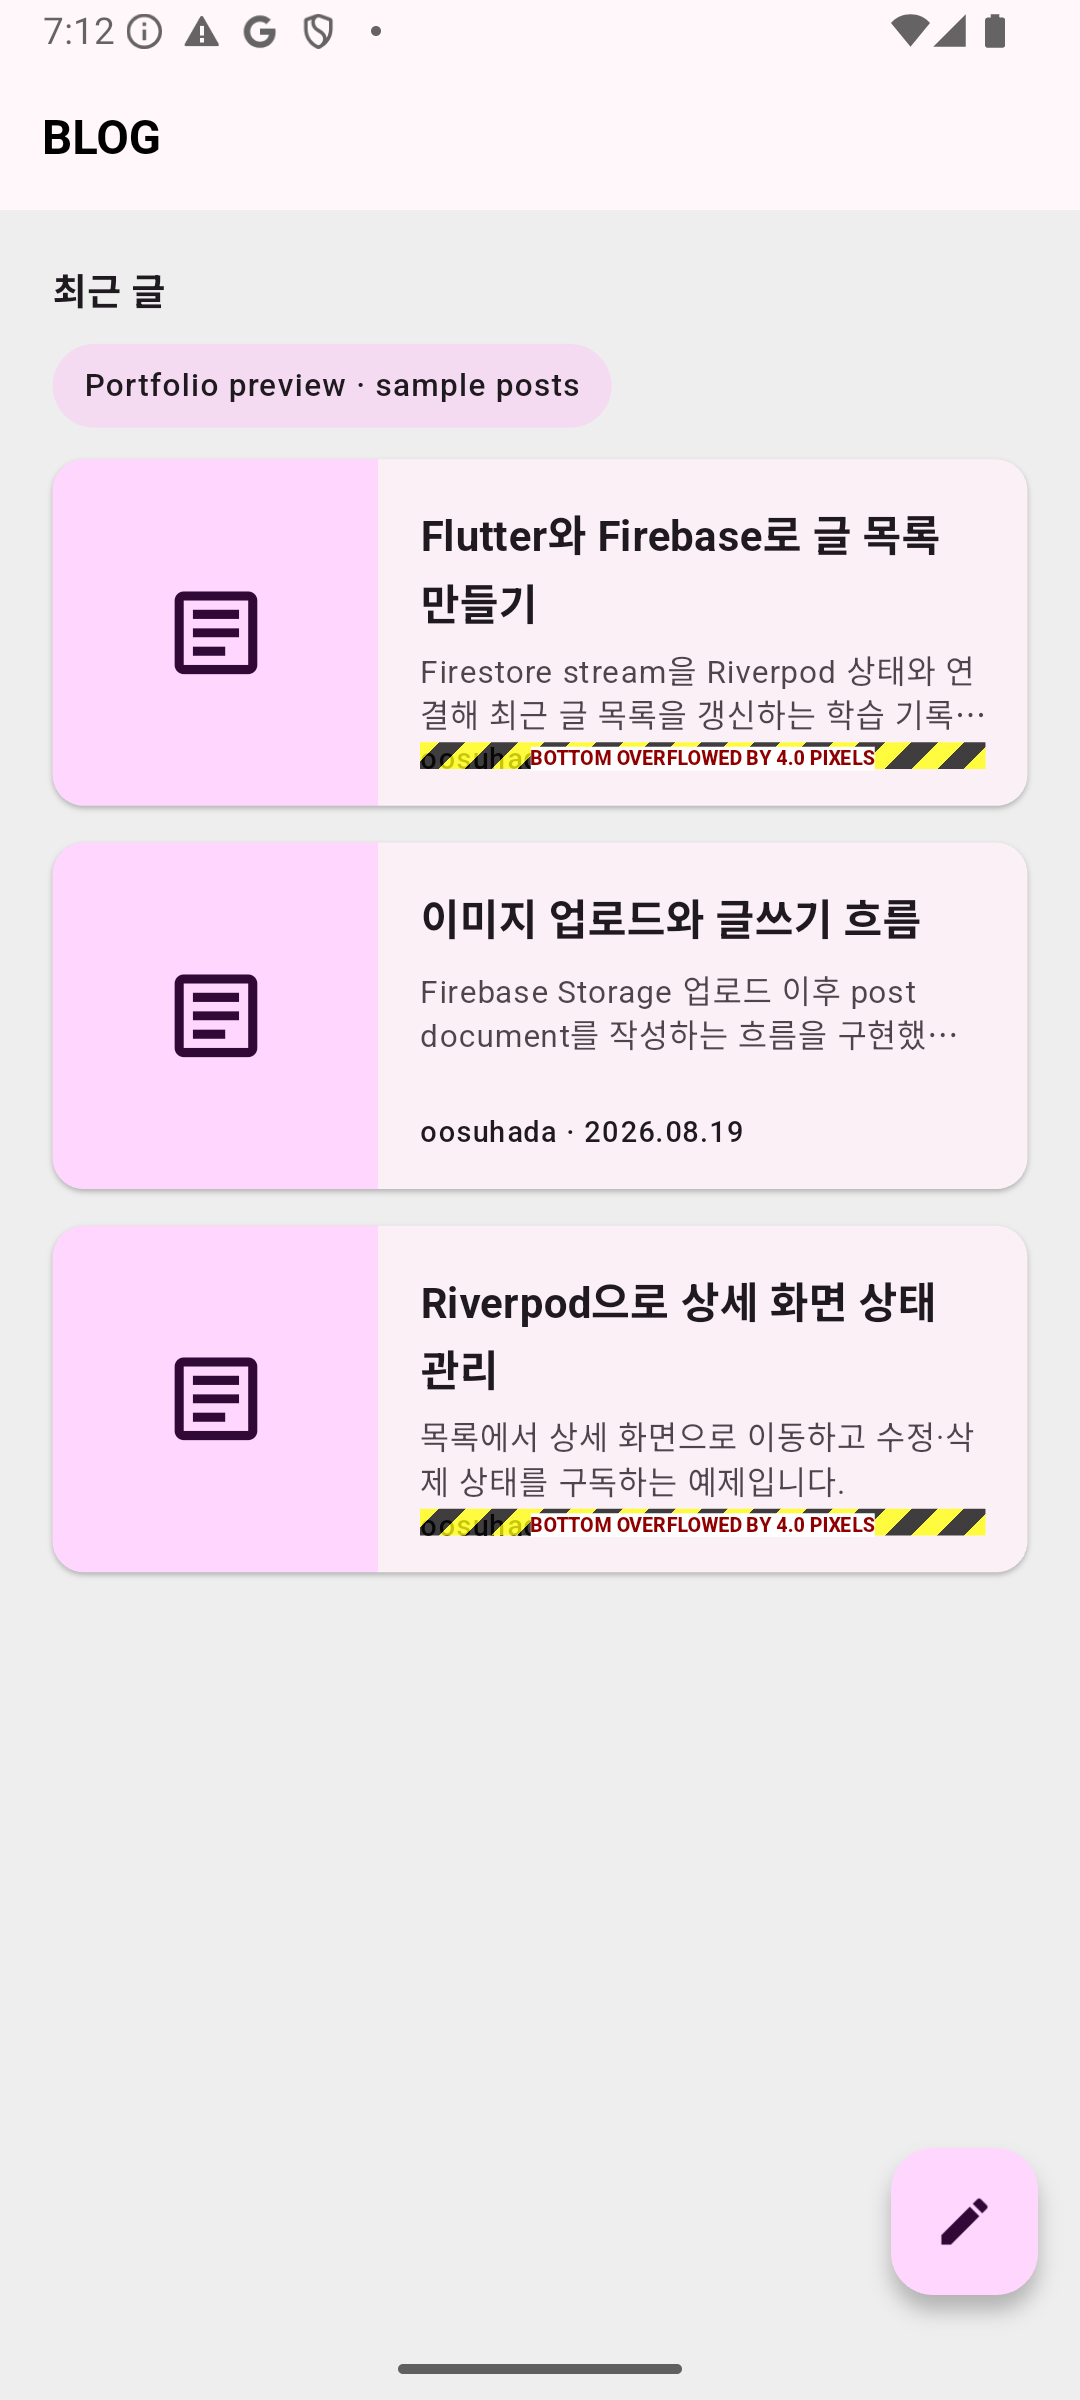
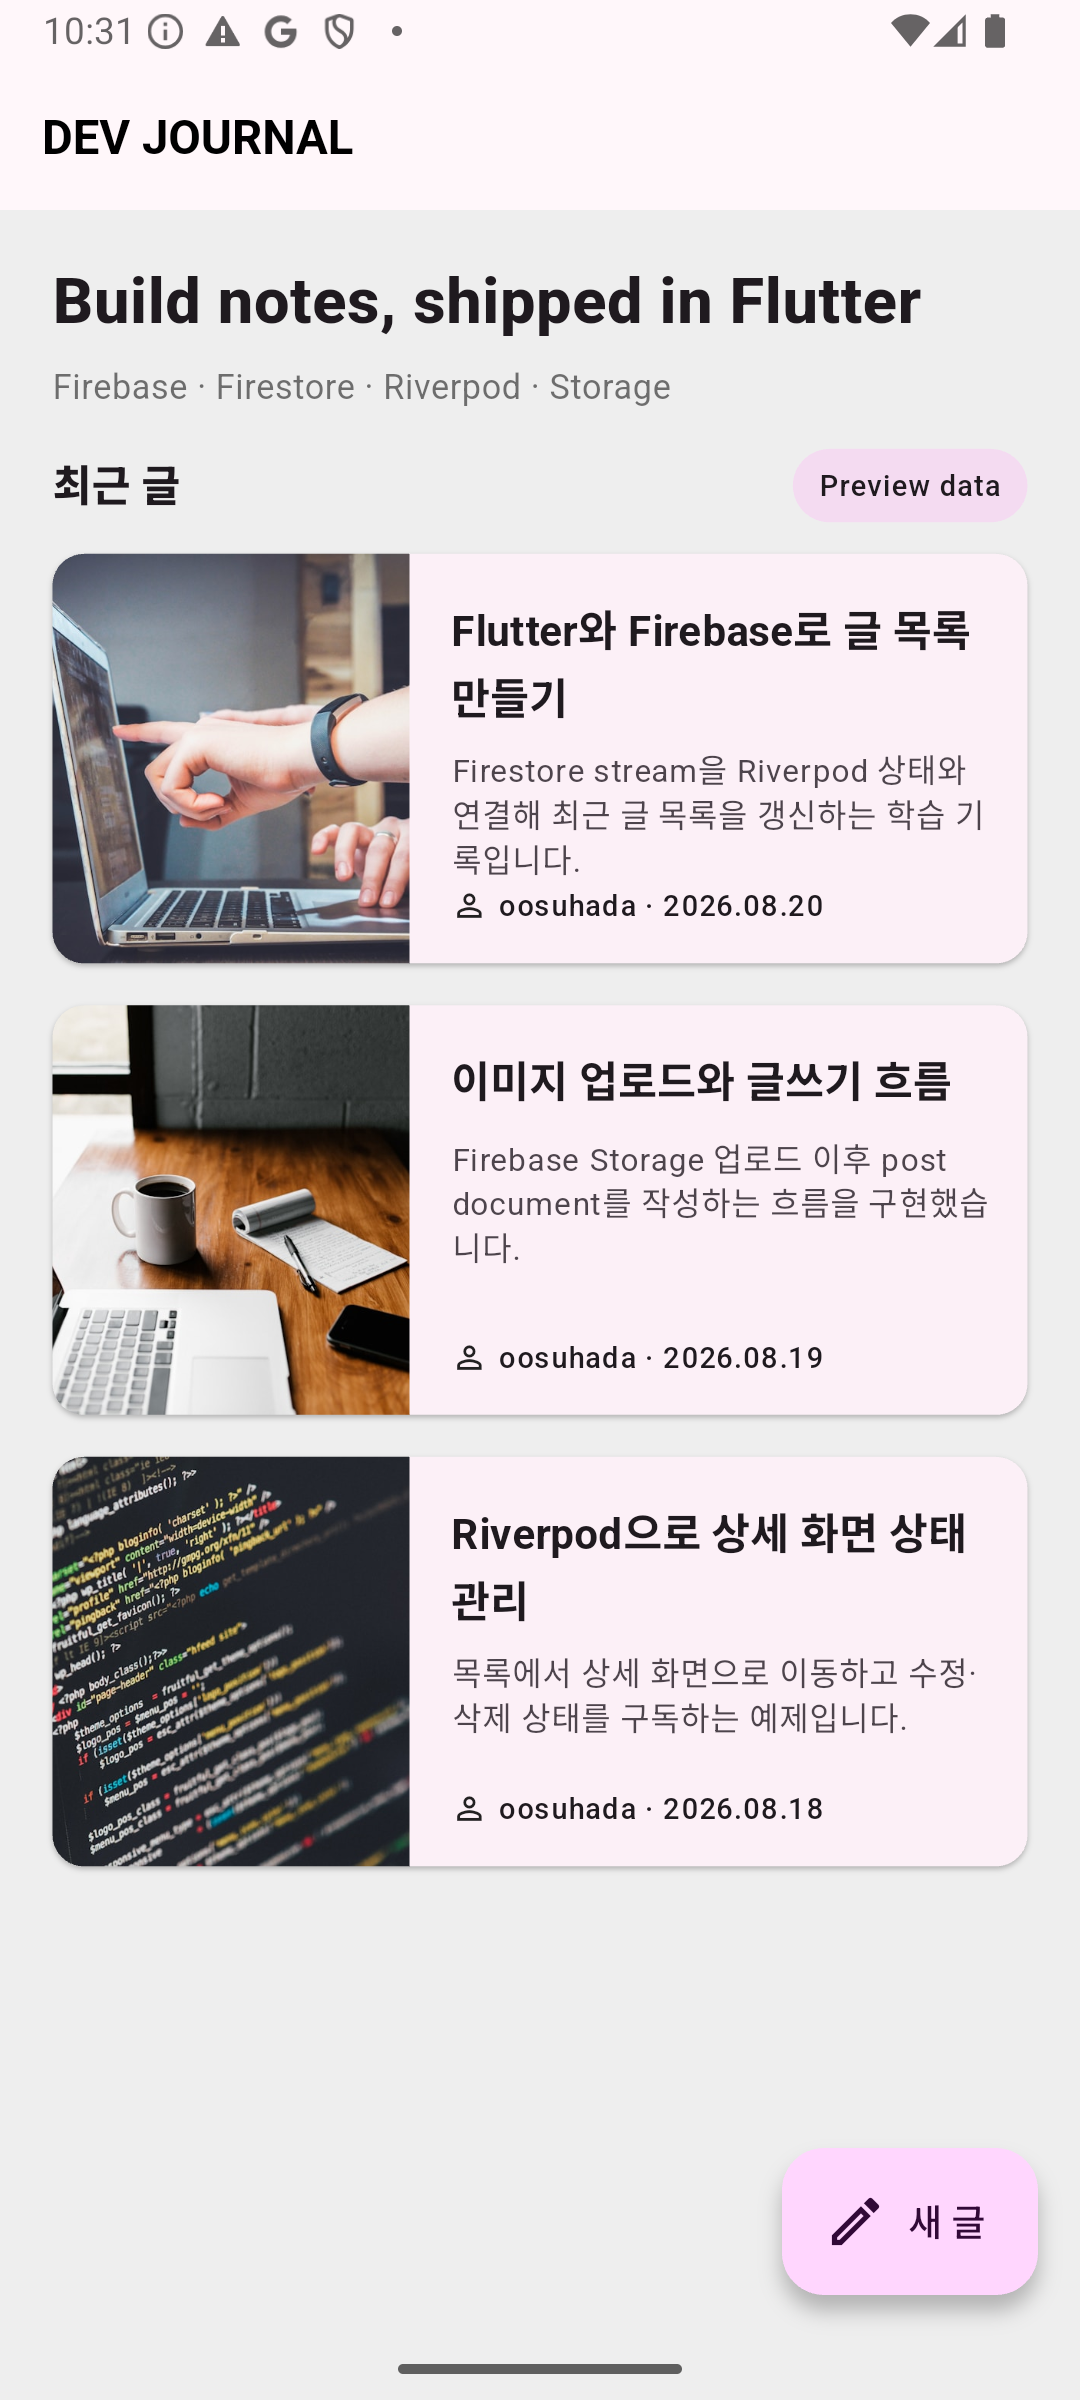
Polish Firebase blog portfolio feed

diff --git a/lib/ui/pages/home/widgets/home_list_view.dart b/lib/ui/pages/home/widgets/home_list_view.dart
@@ -15,26 +15,38 @@ class HomeListView extends ConsumerWidget {
       child: Column(
         crossAxisAlignment: CrossAxisAlignment.start,
         children: [
-          if (state.isSample)
-            Padding(
-              padding: const EdgeInsets.only(bottom: 12),
-              child: Container(
-                padding:
-                    const EdgeInsets.symmetric(horizontal: 12, vertical: 8),
-                decoration: BoxDecoration(
-                  color: Theme.of(context).colorScheme.secondaryContainer,
-                  borderRadius: BorderRadius.circular(999),
+          Padding(
+            padding: const EdgeInsets.fromLTRB(20, 0, 20, 12),
+            child: Row(
+              children: [
+                Text(
+                  '최근 글',
+                  style: Theme.of(context).textTheme.titleMedium?.copyWith(
+                        fontWeight: FontWeight.w800,
+                      ),
                 ),
-                child: Text(
-                  'Portfolio preview · sample posts',
-                  style: Theme.of(context).textTheme.labelMedium,
-                ),
-              ),
+                const Spacer(),
+                if (state.isSample)
+                  Container(
+                    padding:
+                        const EdgeInsets.symmetric(horizontal: 10, vertical: 6),
+                    decoration: BoxDecoration(
+                      color: Theme.of(context).colorScheme.secondaryContainer,
+                      borderRadius: BorderRadius.circular(999),
+                    ),
+                    child: Text(
+                      'Preview data',
+                      style: Theme.of(context).textTheme.labelSmall,
+                    ),
+                  ),
+              ],
             ),
+          ),
           Expanded(
             child: ListView.separated(
+              padding: const EdgeInsets.fromLTRB(20, 0, 20, 104),
               itemCount: state.posts.length,
-              separatorBuilder: (context, index) => const SizedBox(height: 14),
+              separatorBuilder: (context, index) => const SizedBox(height: 16),
               itemBuilder: (context, index) => _PostCard(
                 post: state.posts[index],
                 isSample: state.isSample,
@@ -68,17 +80,17 @@ class _PostCard extends StatelessWidget {
                 );
               },
         child: SizedBox(
-          height: 132,
+          height: 156,
           child: Row(
             children: [
               SizedBox(
-                width: 124,
+                width: 136,
                 height: double.infinity,
                 child: _PostImage(post: post),
               ),
               Expanded(
                 child: Padding(
-                  padding: const EdgeInsets.fromLTRB(16, 16, 16, 14),
+                  padding: const EdgeInsets.fromLTRB(16, 16, 14, 14),
                   child: Column(
                     crossAxisAlignment: CrossAxisAlignment.start,
                     children: [
@@ -91,10 +103,10 @@ class _PostCard extends StatelessWidget {
                                   fontWeight: FontWeight.bold,
                                 ),
                       ),
-                      const SizedBox(height: 6),
+                      const SizedBox(height: 8),
                       Text(
                         post.content,
-                        maxLines: 2,
+                        maxLines: 3,
                         overflow: TextOverflow.ellipsis,
                         style: Theme.of(context).textTheme.bodySmall?.copyWith(
                               color: Theme.of(context)
@@ -103,9 +115,19 @@ class _PostCard extends StatelessWidget {
                             ),
                       ),
                       const Spacer(),
-                      Text(
-                        '${post.writer} · ${_date(post.createdAt)}',
-                        style: Theme.of(context).textTheme.labelSmall,
+                      Row(
+                        children: [
+                          const Icon(Icons.person_outline, size: 14),
+                          const SizedBox(width: 4),
+                          Expanded(
+                            child: Text(
+                              '${post.writer} · ${_date(post.createdAt)}',
+                              maxLines: 1,
+                              overflow: TextOverflow.ellipsis,
+                              style: Theme.of(context).textTheme.labelSmall,
+                            ),
+                          ),
+                        ],
                       ),
                     ],
                   ),

diff --git a/lib/ui/pages/home/home_page.dart b/lib/ui/pages/home/home_page.dart
@@ -9,37 +9,43 @@ class HomePage extends StatelessWidget {
   Widget build(BuildContext context) {
     return Scaffold(
       appBar: AppBar(
-        title: const Text('BLOG'),
+        title: const Text('DEV JOURNAL'),
         centerTitle: false,
       ),
-      // 6. Scaffold body 영역의 색상
       backgroundColor: Colors.grey[200],
-      // 7. 패딩 적용
-      body: const Padding(
-        padding: EdgeInsets.all(20),
-        // 1. 레이아웃 배치
+      body: const SafeArea(
+        top: false,
         child: Column(
-          // 5. Expanded를 배치하면 Column의 크기는 정해지기 때문에
-          //    CrossAxisAlignment 설정해주기!
           crossAxisAlignment: CrossAxisAlignment.start,
           children: [
-            // 2. 텍스트 배치
-            Text(
-              '최근 글',
-              style: TextStyle(
-                fontWeight: FontWeight.bold,
+            Padding(
+              padding: EdgeInsets.fromLTRB(20, 18, 20, 14),
+              child: Column(
+                crossAxisAlignment: CrossAxisAlignment.start,
+                children: [
+                  Text(
+                    'Build notes, shipped in Flutter',
+                    style: TextStyle(
+                      fontSize: 24,
+                      fontWeight: FontWeight.w800,
+                    ),
+                  ),
+                  SizedBox(height: 6),
+                  Text(
+                    'Firebase · Firestore · Riverpod · Storage',
+                    style: TextStyle(
+                      fontSize: 13,
+                      color: Colors.black54,
+                    ),
+                  ),
+                ],
               ),
             ),
-            SizedBox(height: 10),
-            // 3. 리스트뷰 배치
-            // ListView는 부모위젯의 크기가 있어야 하므로
-            // Column 내에서 사용 시 Expanded 배치!
-            // (Column은 디폴트로 크기가 정해지지 않은 위젯!)
             HomeListView(),
           ],
         ),
       ),
-      floatingActionButton: FloatingActionButton(
+      floatingActionButton: FloatingActionButton.extended(
         onPressed: () {
           Navigator.push(context, MaterialPageRoute(
             builder: (context) {
@@ -47,7 +53,8 @@ class HomePage extends StatelessWidget {
             },
           ));
         },
-        child: const Icon(Icons.edit),
+        icon: const Icon(Icons.edit_outlined),
+        label: const Text('새 글'),
       ),
     );
   }

diff --git a/lib/ui/pages/home/home_view_model.dart b/lib/ui/pages/home/home_view_model.dart
@@ -21,7 +21,8 @@ class HomeViewModel extends Notifier<HomeState> {
       title: 'Flutter와 Firebase로 글 목록 만들기',
       content: 'Firestore stream을 Riverpod 상태와 연결해 최근 글 목록을 갱신하는 학습 기록입니다.',
       createdAt: DateTime(2026, 8, 20, 18, 20),
-      imgUrl: '',
+      imgUrl:
+          'https://images.unsplash.com/photo-1516321318423-f06f85e504b3?auto=format&fit=crop&w=800&q=85',
     ),
     Post(
       id: 'sample-2',
@@ -29,7 +30,8 @@ class HomeViewModel extends Notifier<HomeState> {
       title: '이미지 업로드와 글쓰기 흐름',
       content: 'Firebase Storage 업로드 이후 post document를 작성하는 흐름을 구현했습니다.',
       createdAt: DateTime(2026, 8, 19, 21, 10),
-      imgUrl: '',
+      imgUrl:
+          'https://images.unsplash.com/photo-1499750310107-5fef28a66643?auto=format&fit=crop&w=800&q=85',
     ),
     Post(
       id: 'sample-3',
@@ -37,7 +39,8 @@ class HomeViewModel extends Notifier<HomeState> {
       title: 'Riverpod으로 상세 화면 상태 관리',
       content: '목록에서 상세 화면으로 이동하고 수정·삭제 상태를 구독하는 예제입니다.',
       createdAt: DateTime(2026, 8, 18, 15, 40),
-      imgUrl: '',
+      imgUrl:
+          'https://images.unsplash.com/photo-1461749280684-dccba630e2f6?auto=format&fit=crop&w=800&q=85',
     ),
   ];
 

diff --git a/test/widget_test.dart b/test/widget_test.dart
@@ -7,9 +7,10 @@ void main() {
     await tester.pumpWidget(const ProviderScope(child: MyApp()));
     await tester.pump();
 
-    expect(find.text('BLOG'), findsOneWidget);
+    expect(find.text('DEV JOURNAL'), findsOneWidget);
     expect(find.text('최근 글'), findsOneWidget);
-    expect(find.text('Portfolio preview · sample posts'), findsOneWidget);
+    expect(find.text('Preview data'), findsOneWidget);
+    expect(find.text('Build notes, shipped in Flutter'), findsOneWidget);
     expect(find.text('Flutter와 Firebase로 글 목록 만들기'), findsOneWidget);
   });
 }
